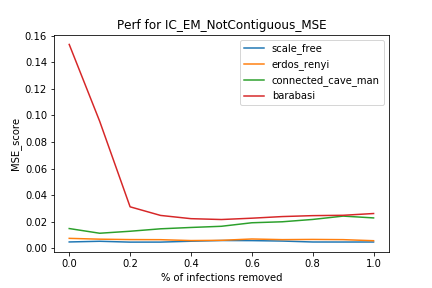
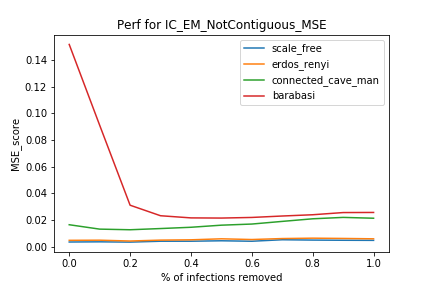
[update readme] MAP more stable results

diff --git a/IC_SAITO/src/Metrics.py b/IC_SAITO/src/Metrics.py
@@ -20,7 +20,7 @@ def MAE(ref,g):
     g.resize(ref.shape)
     return (np.abs(ref-g)).sum()/len(ref)
 
-def Pws_gs(graph,source,nbEpisode=100):
+def Pws_gs(graph,source,nbEpisode=1000):
     ''' Calcule la probabilité qu'un noeud soit infecté connaissant 
         une source et un graph de diffusion
         On calcule par moyenne sur echantionnage d'episodes d'infections '''

diff --git a/IC_SAITO/data/eval/MAP.md b/IC_SAITO/data/eval/MAP.md
@@ -1,5 +1,5 @@
 |                     |   scale_free |   erdos_renyi |   connected_cave_man |   barabasi |
 |:--------------------|-------------:|--------------:|---------------------:|-----------:|
-| IC_EM_Saito2008     |     0.982853 |      0.849562 |             0.840047 |   0.891198 |
-| IC_EM_NotContiguous |     0.979134 |      0.656865 |             0.726627 |   0.71513  |
-| original            |     0.980544 |      0.905014 |             0.933889 |   0.951407 |
+| IC_EM_Saito2008     |     0.997631 |      0.926775 |             0.815512 |   0.918886 |
+| IC_EM_NotContiguous |     0.995958 |      0.860081 |             0.734667 |   0.648006 |
+| original            |     0.995998 |      0.929336 |             0.932488 |   0.950368 |

diff --git a/IC_SAITO/data/eval/MSE.md b/IC_SAITO/data/eval/MSE.md
@@ -1,4 +1,4 @@
 |                     |   scale_free |   erdos_renyi |   connected_cave_man |   barabasi |
 |:--------------------|-------------:|--------------:|---------------------:|-----------:|
-| IC_EM_Saito2008     |   0.00172863 |    0.0018261  |           0.00520663 |  0.0142106 |
-| IC_EM_NotContiguous |   0.00471561 |    0.00741874 |           0.0148063  |  0.153406  |
+| IC_EM_Saito2008     |   0.00187166 |    0.00180245 |            0.0048474 |   0.014316 |
+| IC_EM_NotContiguous |   0.00350049 |    0.00475836 |            0.0164662 |   0.151803 |

diff --git a/IC_SAITO/data/eval/fit_time.md b/IC_SAITO/data/eval/fit_time.md
@@ -1,4 +1,4 @@
 |                     |   scale_free |   erdos_renyi |   connected_cave_man |   barabasi |
 |:--------------------|-------------:|--------------:|---------------------:|-----------:|
-| IC_EM_Saito2008     |      3.39858 |       11.9802 |              21.0049 |    18.9188 |
-| IC_EM_NotContiguous |      2.781   |       28.3492 |              37.252  |    15.0501 |
+| IC_EM_Saito2008     |     0.402367 |      0.406895 |             0.424386 |    2.02958 |
+| IC_EM_NotContiguous |     0.392356 |      0.477443 |             1.60399  |    1.9971  |
